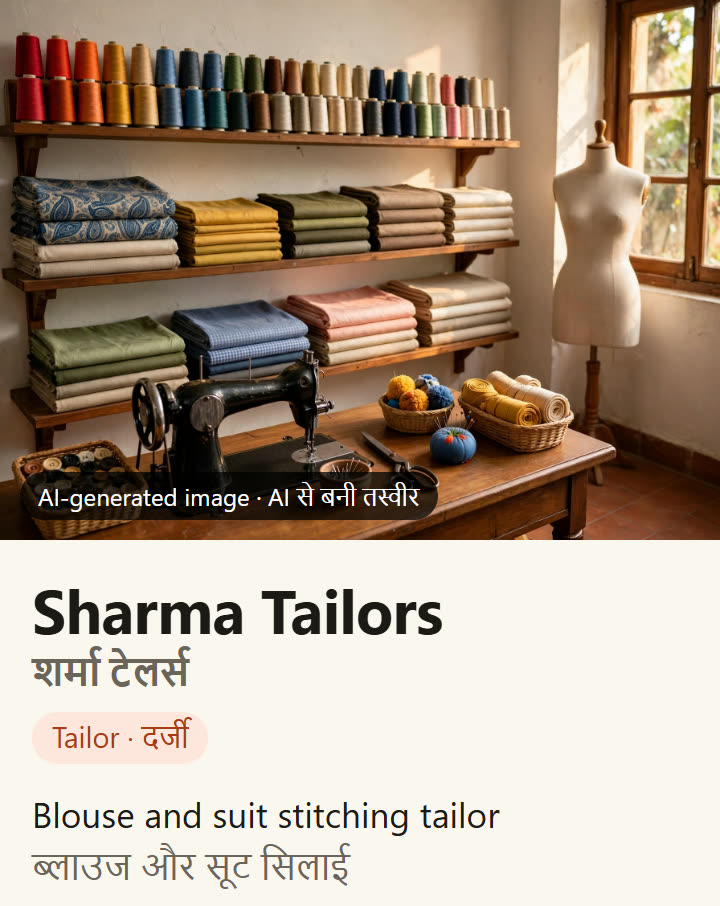
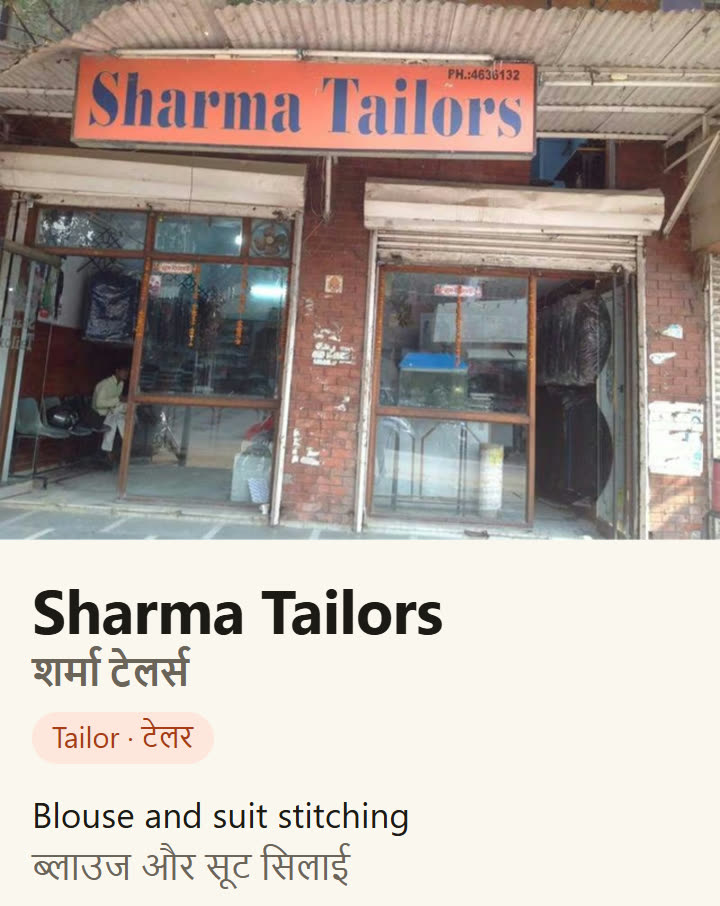
Add one-tap 'Haan, sahi hai' confirm; use real shopfront photo for the example
Clarification now offers a one-tap confirm of the heard value (teal 'Yes, correct') so the owner isn't forced to retype; backend 'confirm' path still validates (invalid phone is not accepted). Landing example rebuilt from the real tailor note plus the owner's actual shopfront photo, so 'View site' opens a real, photo-based page with both prices. 21 gate tests pass incl. two confirm-path cases.

diff --git a/public/app.js b/public/app.js
@@ -323,23 +323,35 @@ function askQuestions(result, signText) {
       fs.append(el('legend', '', c.question));
       if (c.heard) fs.append(el('p', 'heard', `We heard: ${c.heard}`));
       const opts = el('div', 'opts-row');
+      const selectOne = (btn) => {
+        const on = btn.getAttribute('aria-pressed') !== 'true';
+        opts.querySelectorAll('.opt').forEach((x) => x.setAttribute('aria-pressed', 'false'));
+        btn.setAttribute('aria-pressed', String(on));
+        if (on) fs.querySelector('input').value = '';
+      };
+      // When we heard a value, the fastest honest answer is "yes, that's right" — one tap, no retyping.
+      if (c.heard) {
+        const yes = el('button', 'opt opt-confirm');
+        yes.type = 'button';
+        yes.dataset.confirm = '1';
+        yes.setAttribute('aria-pressed', 'false');
+        yes.append(el('span', '', 'Haan, sahi hai'), el('span', 'src', 'Yes, correct'));
+        yes.addEventListener('click', () => selectOne(yes));
+        opts.append(yes);
+      }
       for (const o of c.options) {
+        if (o === c.heard) continue; // the heard value is already covered by the confirm button
         const b = el('button', 'opt', o);
         b.type = 'button';
         b.dataset.value = o;
         b.setAttribute('aria-pressed', 'false');
         if (c.field === 'business_name' && o === signText) b.append(el('span', 'src', '(from your photo)'));
-        b.addEventListener('click', () => {
-          const on = b.getAttribute('aria-pressed') !== 'true';
-          opts.querySelectorAll('.opt').forEach((x) => x.setAttribute('aria-pressed', 'false'));
-          b.setAttribute('aria-pressed', String(on));
-          if (on) fs.querySelector('input').value = '';
-        });
+        b.addEventListener('click', () => selectOne(b));
         opts.append(b);
       }
-      if (c.options.length) fs.append(opts);
+      if (opts.children.length) fs.append(opts);
       const id = `ans-${c.field}`;
-      const label = el('label', 'small muted', c.options.length ? 'Or type your answer' : 'Your answer');
+      const label = el('label', 'small muted', opts.children.length ? (c.heard ? 'No? Type the correct one' : 'Or type your answer') : 'Your answer');
       label.htmlFor = id;
       const input = el('input');
       input.id = id;
@@ -358,6 +370,7 @@ function askQuestions(result, signText) {
       const answers = [...els.questions.querySelectorAll('.q')].map((fs) => {
         const picked = fs.querySelector('.opt[aria-pressed="true"]');
         const typed = fs.querySelector('input').value.trim();
+        if (picked && picked.dataset.confirm) return { field: fs.dataset.field, via: 'confirm', answer: null };
         if (picked) return { field: fs.dataset.field, via: 'option', answer: picked.dataset.value };
         if (typed) return { field: fs.dataset.field, via: 'text', answer: typed };
         return { field: fs.dataset.field, via: 'skip', answer: null };

diff --git a/lib/clarify.js b/lib/clarify.js
@@ -86,7 +86,19 @@ export async function applyClarifications(result, answers) {
     pending.delete(a.field);
     const fact = facts[a.field];
 
-    if (a.via === 'option') {
+    if (a.via === 'confirm') {
+      // One-tap "yes, that's right" on the value we heard. Only valid when we actually heard one.
+      if (!c.heard) throw new HttpError(400, `Nothing was heard for "${a.field}" to confirm`);
+      const v = validateAnswerValue(a.field, c.heard);
+      Object.assign(fact, {
+        value: v.value,
+        confidence: v.ok ? OPTION_CONFIDENCE : 0.5,
+        source: 'clarification',
+        evidence: c.heard,
+        status: v.ok ? 'accepted' : 'omitted',
+        flags: v.ok ? [] : [v.flag],
+      });
+    } else if (a.via === 'option') {
       if (!c.options.includes(a.answer)) throw new HttpError(400, `"${a.answer}" is not one of the offered options for ${a.field}`);
       const v = validateAnswerValue(a.field, a.answer);
       Object.assign(fact, {

diff --git a/public/styles.css b/public/styles.css
@@ -288,6 +288,10 @@ button:focus-visible, a:focus-visible { outline: 3px solid var(--terracotta); ou
 .opt:hover { background: #fff6e2; }
 .opt[aria-pressed="true"] { background: var(--saffron); border-color: var(--saffron); color: #3a2a06; transform: translateY(-1px); }
 .opt .src { font-size: 0.74rem; opacity: 0.8; margin-left: 5px; }
+.opt-confirm { border-color: var(--teal); color: var(--teal); font-weight: 600; }
+.opt-confirm:hover { background: var(--teal-soft); }
+.opt-confirm[aria-pressed="true"] { background: var(--teal); border-color: var(--teal); color: #fff; }
+.opt-confirm[aria-pressed="true"] .src { opacity: 0.9; }
 .q label.small { display: block; clear: both; margin-bottom: 5px; color: #8a6410; font-weight: 500; }
 .q input[type="text"], .q input[type="tel"] {
   width: 100%; min-height: 48px; padding: 10px 14px; border: 1.5px solid #e0b659; border-radius: var(--r-sm);

diff --git a/public/examples.js b/public/examples.js
@@ -7,9 +7,9 @@ export const EXAMPLES = [
   {
     name: 'Sharma Tailors',
     category: 'Tailor · Lajpat Nagar Market',
-    url: 'https://bolsite.vercel.app/sharma-tailors-m68zio',
+    url: 'https://bolsite.vercel.app/sharma-tailors-bmvq36',
     image: '/img/example-sharma-tailors.jpg',
-    imageAlt: 'Top of the Sharma Tailors website on a phone: an AI-generated, labelled photo of a tailoring shop, then the shop name in English and Hindi.',
-    note: 'Built from a 34-second Hindi voice note. The hero picture is AI-generated and labelled.',
+    imageAlt: "Top of the Sharma Tailors website on a phone: the owner's real shopfront photo with the painted signboard, then the shop name in English and Hindi.",
+    note: 'Built from a 34-second Hindi voice note and one shopfront photo.',
   },
 ];
